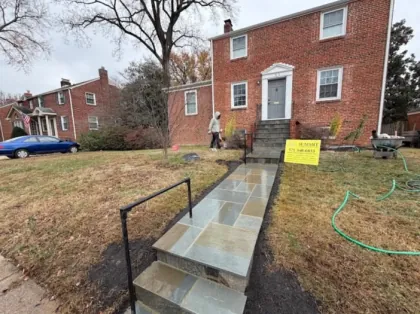
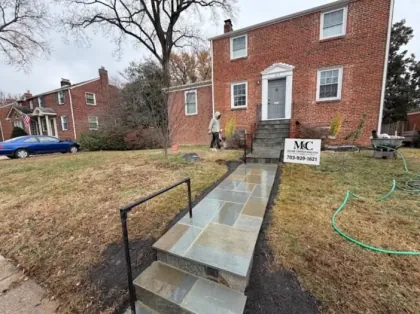
Replace the Summit yard signs in two photos with M&C signs
stone-flagstone-walkway and driveway-paver-walled, edited with ChatGPT's
image model; only the sign area was taken from the edit.

Changed region(s): [[0.65, 0.4299, 0.8048, 0.5446]]

diff --git a/portfolio/index.html b/portfolio/index.html
@@ -534,8 +534,8 @@
   <figcaption>Multi-tone paver driveway framed by a charcoal soldier-course border and a low stone wall</figcaption>
 </figure>
 <figure class="reveal"><picture>
-  <source type="image/webp" srcset="/assets/img/driveway-paver-walled-420.webp?v=66d428a1 420w, /assets/img/driveway-paver-walled-701.webp?v=0b9eb178 701w" sizes="(max-width:560px) 92vw, (max-width:900px) 45vw, 30vw">
-  <img src="/assets/img/driveway-paver-walled-701.webp?v=0b9eb178" srcset="/assets/img/driveway-paver-walled-420.webp?v=66d428a1 420w, /assets/img/driveway-paver-walled-701.webp?v=0b9eb178 701w" sizes="(max-width:560px) 92vw, (max-width:900px) 45vw, 30vw"
+  <source type="image/webp" srcset="/assets/img/driveway-paver-walled-420.webp?v=a864b111 420w, /assets/img/driveway-paver-walled-701.webp?v=315f839b 701w" sizes="(max-width:560px) 92vw, (max-width:900px) 45vw, 30vw">
+  <img src="/assets/img/driveway-paver-walled-701.webp?v=315f839b" srcset="/assets/img/driveway-paver-walled-420.webp?v=a864b111 420w, /assets/img/driveway-paver-walled-701.webp?v=315f839b 701w" sizes="(max-width:560px) 92vw, (max-width:900px) 45vw, 30vw"
        width="701" height="525" alt="Paver driveway with red brick borders running between two segmental block retaining walls" loading="lazy" decoding="async">
 </picture>
   <figcaption>Paver driveway with red brick borders running between two segmental block retaining walls</figcaption>
@@ -618,8 +618,8 @@
   <figcaption>New concrete driveway with scored panels and a smooth border, lit at night</figcaption>
 </figure>
 <figure class="reveal"><picture>
-  <source type="image/webp" srcset="/assets/img/stone-flagstone-walkway-420.webp?v=d00a4454 420w, /assets/img/stone-flagstone-walkway-702.webp?v=a2234a60 702w" sizes="(max-width:560px) 92vw, (max-width:900px) 45vw, 30vw">
-  <img src="/assets/img/stone-flagstone-walkway-702.webp?v=a2234a60" srcset="/assets/img/stone-flagstone-walkway-420.webp?v=d00a4454 420w, /assets/img/stone-flagstone-walkway-702.webp?v=a2234a60 702w" sizes="(max-width:560px) 92vw, (max-width:900px) 45vw, 30vw"
+  <source type="image/webp" srcset="/assets/img/stone-flagstone-walkway-420.webp?v=f7d8fe39 420w, /assets/img/stone-flagstone-walkway-702.webp?v=2bc2ba8b 702w" sizes="(max-width:560px) 92vw, (max-width:900px) 45vw, 30vw">
+  <img src="/assets/img/stone-flagstone-walkway-702.webp?v=2bc2ba8b" srcset="/assets/img/stone-flagstone-walkway-420.webp?v=f7d8fe39 420w, /assets/img/stone-flagstone-walkway-702.webp?v=2bc2ba8b 702w" sizes="(max-width:560px) 92vw, (max-width:900px) 45vw, 30vw"
        width="702" height="525" alt="Flagstone walkway and steps with a metal handrail leading to a brick colonial" loading="lazy" decoding="async">
 </picture>
   <figcaption>Flagstone walkway and steps with a metal handrail leading to a brick colonial</figcaption>

diff --git a/service-areas/mclean-va/index.html b/service-areas/mclean-va/index.html
@@ -190,8 +190,8 @@
 </picture>
       <figcaption style="margin-top:.6rem;font-size:.8rem;color:var(--ink-dim)">Paver driveway with a circular medallion inlay and banded edging in front of a two-car garage</figcaption></figure>
       <figure class="reveal" style="margin:0"><picture class="card__media">
-  <source type="image/webp" srcset="/assets/img/driveway-paver-walled-420.webp?v=66d428a1 420w, /assets/img/driveway-paver-walled-701.webp?v=0b9eb178 701w" sizes="(max-width:620px) 92vw, (max-width:900px) 45vw, 30vw">
-  <img src="/assets/img/driveway-paver-walled-701.webp?v=0b9eb178" srcset="/assets/img/driveway-paver-walled-420.webp?v=66d428a1 420w, /assets/img/driveway-paver-walled-701.webp?v=0b9eb178 701w" sizes="(max-width:620px) 92vw, (max-width:900px) 45vw, 30vw"
+  <source type="image/webp" srcset="/assets/img/driveway-paver-walled-420.webp?v=a864b111 420w, /assets/img/driveway-paver-walled-701.webp?v=315f839b 701w" sizes="(max-width:620px) 92vw, (max-width:900px) 45vw, 30vw">
+  <img src="/assets/img/driveway-paver-walled-701.webp?v=315f839b" srcset="/assets/img/driveway-paver-walled-420.webp?v=a864b111 420w, /assets/img/driveway-paver-walled-701.webp?v=315f839b 701w" sizes="(max-width:620px) 92vw, (max-width:900px) 45vw, 30vw"
        width="701" height="525" alt="Paver driveway with red brick borders running between two segmental block retaining walls" loading="lazy" decoding="async">
 </picture>
       <figcaption style="margin-top:.6rem;font-size:.8rem;color:var(--ink-dim)">Paver driveway with red brick borders running between two segmental block retaining walls</figcaption></figure>

diff --git a/masonry/paver-driveways/index.html b/masonry/paver-driveways/index.html
@@ -238,8 +238,8 @@
 </picture>
       <figcaption style="margin-top:.6rem;font-size:.8rem;color:var(--ink-dim)">Multi-tone paver driveway framed by a charcoal soldier-course border and a low stone wall</figcaption></figure>
       <figure class="reveal" style="margin:0"><picture class="card__media">
-  <source type="image/webp" srcset="/assets/img/driveway-paver-walled-420.webp?v=66d428a1 420w, /assets/img/driveway-paver-walled-701.webp?v=0b9eb178 701w" sizes="(max-width:620px) 92vw, (max-width:900px) 45vw, 30vw">
-  <img src="/assets/img/driveway-paver-walled-701.webp?v=0b9eb178" srcset="/assets/img/driveway-paver-walled-420.webp?v=66d428a1 420w, /assets/img/driveway-paver-walled-701.webp?v=0b9eb178 701w" sizes="(max-width:620px) 92vw, (max-width:900px) 45vw, 30vw"
+  <source type="image/webp" srcset="/assets/img/driveway-paver-walled-420.webp?v=a864b111 420w, /assets/img/driveway-paver-walled-701.webp?v=315f839b 701w" sizes="(max-width:620px) 92vw, (max-width:900px) 45vw, 30vw">
+  <img src="/assets/img/driveway-paver-walled-701.webp?v=315f839b" srcset="/assets/img/driveway-paver-walled-420.webp?v=a864b111 420w, /assets/img/driveway-paver-walled-701.webp?v=315f839b 701w" sizes="(max-width:620px) 92vw, (max-width:900px) 45vw, 30vw"
        width="701" height="525" alt="Paver driveway with red brick borders running between two segmental block retaining walls" loading="lazy" decoding="async">
 </picture>
       <figcaption style="margin-top:.6rem;font-size:.8rem;color:var(--ink-dim)">Paver driveway with red brick borders running between two segmental block retaining walls</figcaption></figure>

diff --git a/masonry/retaining-walls/fairfax-va/index.html b/masonry/retaining-walls/fairfax-va/index.html
@@ -255,8 +255,8 @@
 </picture>
       <figcaption style="margin-top:.6rem;font-size:.8rem;color:var(--ink-dim)">Curved stone-faced retaining wall with a cap along a paver walkway in a side yard</figcaption></figure>
       <figure class="reveal" style="margin:0"><picture class="card__media">
-  <source type="image/webp" srcset="/assets/img/driveway-paver-walled-420.webp?v=66d428a1 420w, /assets/img/driveway-paver-walled-701.webp?v=0b9eb178 701w" sizes="(max-width:620px) 92vw, (max-width:900px) 45vw, 30vw">
-  <img src="/assets/img/driveway-paver-walled-701.webp?v=0b9eb178" srcset="/assets/img/driveway-paver-walled-420.webp?v=66d428a1 420w, /assets/img/driveway-paver-walled-701.webp?v=0b9eb178 701w" sizes="(max-width:620px) 92vw, (max-width:900px) 45vw, 30vw"
+  <source type="image/webp" srcset="/assets/img/driveway-paver-walled-420.webp?v=a864b111 420w, /assets/img/driveway-paver-walled-701.webp?v=315f839b 701w" sizes="(max-width:620px) 92vw, (max-width:900px) 45vw, 30vw">
+  <img src="/assets/img/driveway-paver-walled-701.webp?v=315f839b" srcset="/assets/img/driveway-paver-walled-420.webp?v=a864b111 420w, /assets/img/driveway-paver-walled-701.webp?v=315f839b 701w" sizes="(max-width:620px) 92vw, (max-width:900px) 45vw, 30vw"
        width="701" height="525" alt="Paver driveway with red brick borders running between two segmental block retaining walls" loading="lazy" decoding="async">
 </picture>
       <figcaption style="margin-top:.6rem;font-size:.8rem;color:var(--ink-dim)">Paver driveway with red brick borders running between two segmental block retaining walls</figcaption></figure>

diff --git a/masonry/retaining-walls/index.html b/masonry/retaining-walls/index.html
@@ -260,8 +260,8 @@
 </picture>
       <figcaption style="margin-top:.6rem;font-size:.8rem;color:var(--ink-dim)">Curved stone-faced retaining wall with a cap along a paver walkway in a side yard</figcaption></figure>
       <figure class="reveal" style="margin:0"><picture class="card__media">
-  <source type="image/webp" srcset="/assets/img/driveway-paver-walled-420.webp?v=66d428a1 420w, /assets/img/driveway-paver-walled-701.webp?v=0b9eb178 701w" sizes="(max-width:620px) 92vw, (max-width:900px) 45vw, 30vw">
-  <img src="/assets/img/driveway-paver-walled-701.webp?v=0b9eb178" srcset="/assets/img/driveway-paver-walled-420.webp?v=66d428a1 420w, /assets/img/driveway-paver-walled-701.webp?v=0b9eb178 701w" sizes="(max-width:620px) 92vw, (max-width:900px) 45vw, 30vw"
+  <source type="image/webp" srcset="/assets/img/driveway-paver-walled-420.webp?v=a864b111 420w, /assets/img/driveway-paver-walled-701.webp?v=315f839b 701w" sizes="(max-width:620px) 92vw, (max-width:900px) 45vw, 30vw">
+  <img src="/assets/img/driveway-paver-walled-701.webp?v=315f839b" srcset="/assets/img/driveway-paver-walled-420.webp?v=a864b111 420w, /assets/img/driveway-paver-walled-701.webp?v=315f839b 701w" sizes="(max-width:620px) 92vw, (max-width:900px) 45vw, 30vw"
        width="701" height="525" alt="Paver driveway with red brick borders running between two segmental block retaining walls" loading="lazy" decoding="async">
 </picture>
       <figcaption style="margin-top:.6rem;font-size:.8rem;color:var(--ink-dim)">Paver driveway with red brick borders running between two segmental block retaining walls</figcaption></figure>

diff --git a/stone-work/walkways-steps/index.html b/stone-work/walkways-steps/index.html
@@ -315,8 +315,8 @@
 </picture>
       <figcaption style="margin-top:.6rem;font-size:.8rem;color:var(--ink-dim)">Curved paver steps and walkway with charcoal borders in a backyard</figcaption></figure>
       <figure class="reveal" style="margin:0"><picture class="card__media">
-  <source type="image/webp" srcset="/assets/img/stone-flagstone-walkway-420.webp?v=d00a4454 420w, /assets/img/stone-flagstone-walkway-702.webp?v=a2234a60 702w" sizes="(max-width:620px) 92vw, (max-width:900px) 45vw, 30vw">
-  <img src="/assets/img/stone-flagstone-walkway-702.webp?v=a2234a60" srcset="/assets/img/stone-flagstone-walkway-420.webp?v=d00a4454 420w, /assets/img/stone-flagstone-walkway-702.webp?v=a2234a60 702w" sizes="(max-width:620px) 92vw, (max-width:900px) 45vw, 30vw"
+  <source type="image/webp" srcset="/assets/img/stone-flagstone-walkway-420.webp?v=f7d8fe39 420w, /assets/img/stone-flagstone-walkway-702.webp?v=2bc2ba8b 702w" sizes="(max-width:620px) 92vw, (max-width:900px) 45vw, 30vw">
+  <img src="/assets/img/stone-flagstone-walkway-702.webp?v=2bc2ba8b" srcset="/assets/img/stone-flagstone-walkway-420.webp?v=f7d8fe39 420w, /assets/img/stone-flagstone-walkway-702.webp?v=2bc2ba8b 702w" sizes="(max-width:620px) 92vw, (max-width:900px) 45vw, 30vw"
        width="702" height="525" alt="Flagstone walkway and steps with a metal handrail leading to a brick colonial" loading="lazy" decoding="async">
 </picture>
       <figcaption style="margin-top:.6rem;font-size:.8rem;color:var(--ink-dim)">Flagstone walkway and steps with a metal handrail leading to a brick colonial</figcaption></figure>

diff --git a/service-areas/falls-church-va/index.html b/service-areas/falls-church-va/index.html
@@ -171,8 +171,8 @@
 </picture>
       <figcaption style="margin-top:.6rem;font-size:.8rem;color:var(--ink-dim)">Curved paver walkway surrounded by fresh mulch beds</figcaption></figure>
       <figure class="reveal" style="margin:0"><picture class="card__media">
-  <source type="image/webp" srcset="/assets/img/stone-flagstone-walkway-420.webp?v=d00a4454 420w, /assets/img/stone-flagstone-walkway-702.webp?v=a2234a60 702w" sizes="(max-width:620px) 92vw, (max-width:900px) 45vw, 30vw">
-  <img src="/assets/img/stone-flagstone-walkway-702.webp?v=a2234a60" srcset="/assets/img/stone-flagstone-walkway-420.webp?v=d00a4454 420w, /assets/img/stone-flagstone-walkway-702.webp?v=a2234a60 702w" sizes="(max-width:620px) 92vw, (max-width:900px) 45vw, 30vw"
+  <source type="image/webp" srcset="/assets/img/stone-flagstone-walkway-420.webp?v=f7d8fe39 420w, /assets/img/stone-flagstone-walkway-702.webp?v=2bc2ba8b 702w" sizes="(max-width:620px) 92vw, (max-width:900px) 45vw, 30vw">
+  <img src="/assets/img/stone-flagstone-walkway-702.webp?v=2bc2ba8b" srcset="/assets/img/stone-flagstone-walkway-420.webp?v=f7d8fe39 420w, /assets/img/stone-flagstone-walkway-702.webp?v=2bc2ba8b 702w" sizes="(max-width:620px) 92vw, (max-width:900px) 45vw, 30vw"
        width="702" height="525" alt="Flagstone walkway and steps with a metal handrail leading to a brick colonial" loading="lazy" decoding="async">
 </picture>
       <figcaption style="margin-top:.6rem;font-size:.8rem;color:var(--ink-dim)">Flagstone walkway and steps with a metal handrail leading to a brick colonial</figcaption></figure>
